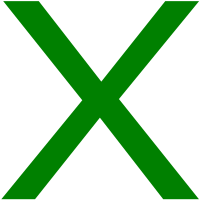
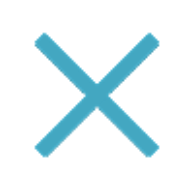
change color

diff --git a/grid.py b/grid.py
@@ -26,14 +26,14 @@ class Grid: #เส้น grid
 
     def draw(self, surface): 
         for line in self.grid_lines:
-            pygame.draw.line(surface, (0,0,0), line[0], line[1], 6)
+            pygame.draw.line(surface, (30,30,30), line[0], line[1], 12)
 
         for y in range(len(self.grid)):            #ดึงรูปมาใส่ตำแหน่ง
             for x in range(len(self.grid[y])):
                 if self.get_cell_value(x, y) == "X":
-                    surface.blit(letterX, (x*200, y*200))
+                    surface.blit(letterX, ((x*200)+1, (y*200)+1))
                 elif self.get_cell_value(x, y) == "O":
-                    surface.blit(letterO, (x*200, y*200))
+                    surface.blit(letterO, ((x*200)+1, (y*200)+1))
 
     #------------------------- Check the game is still playing ---------------------------------
 

diff --git a/server.py b/server.py
@@ -106,7 +106,7 @@ while running:
             elif event.key == pygame.K_ESCAPE:
                 running = False                    
                 
-    surface.fill((255,255,255))
+    surface.fill((45,45,45))
 
     # Put grid line in surface
     grid.draw(surface)

diff --git a/client.py b/client.py
@@ -88,7 +88,7 @@ while running:
             elif event.key == pygame.K_ESCAPE:
                 running = False                    
                 
-    surface.fill((255,255,255))
+    surface.fill((45,45,45))
 
     # Put grid line in surface
     grid.draw(surface)
